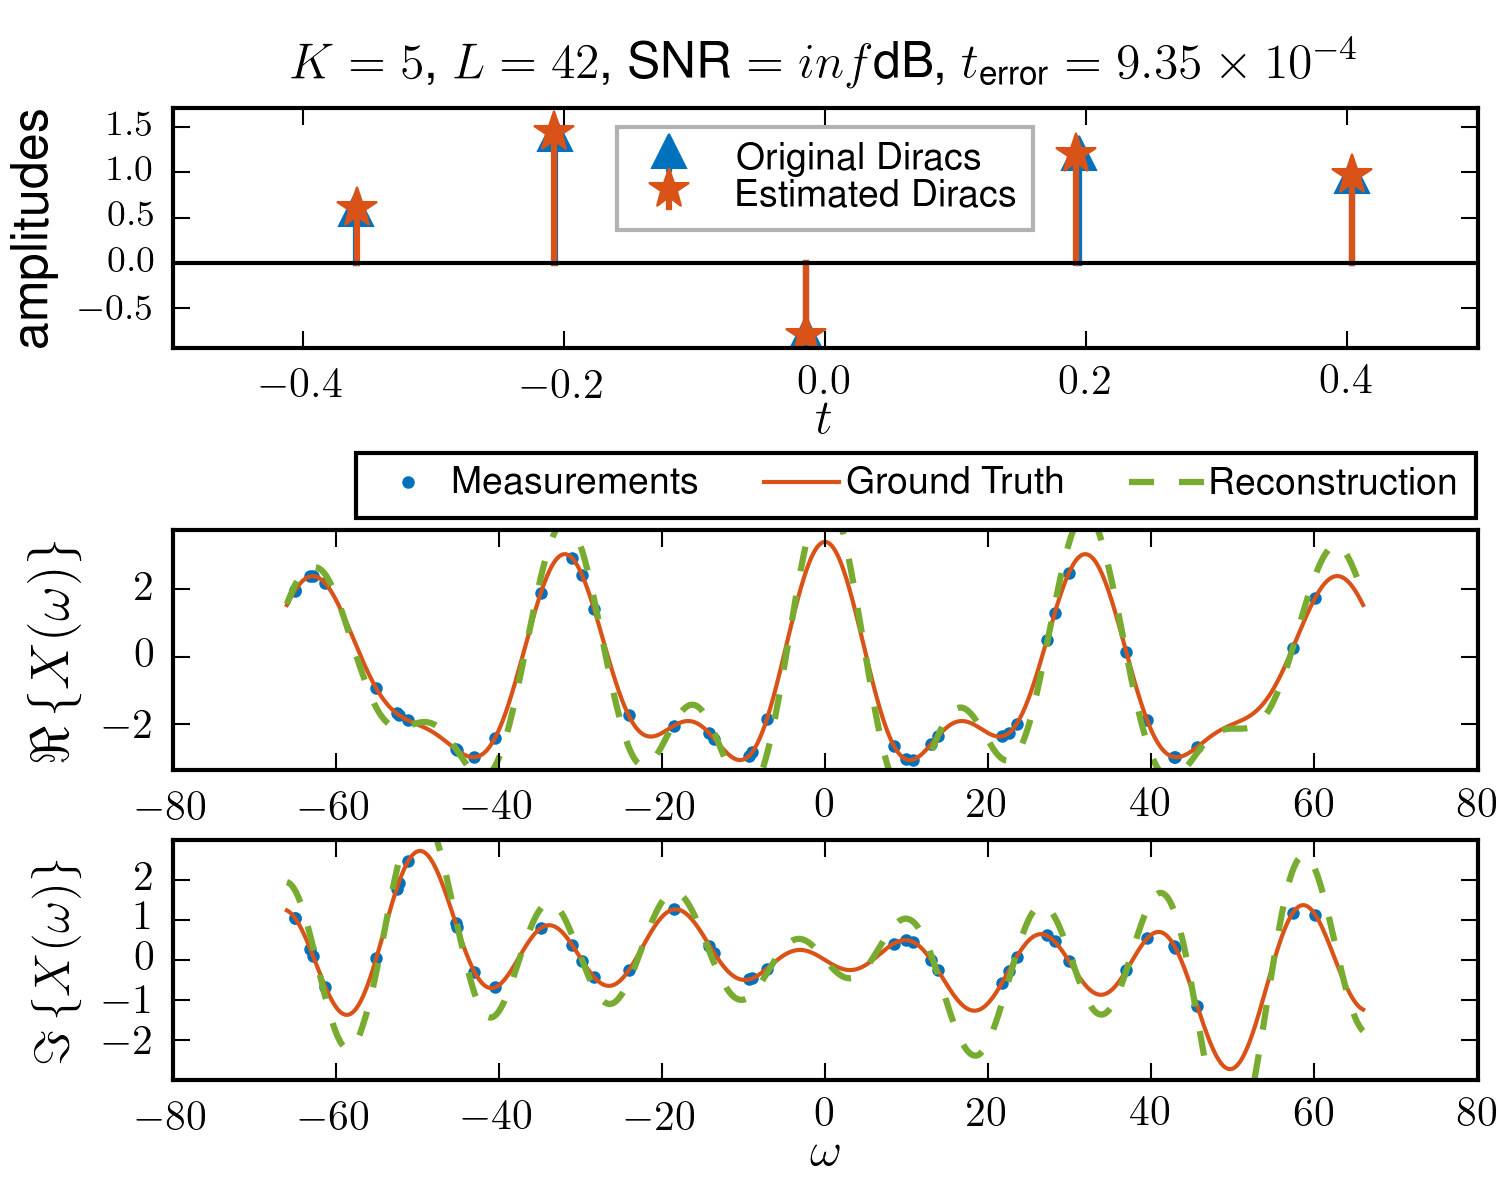
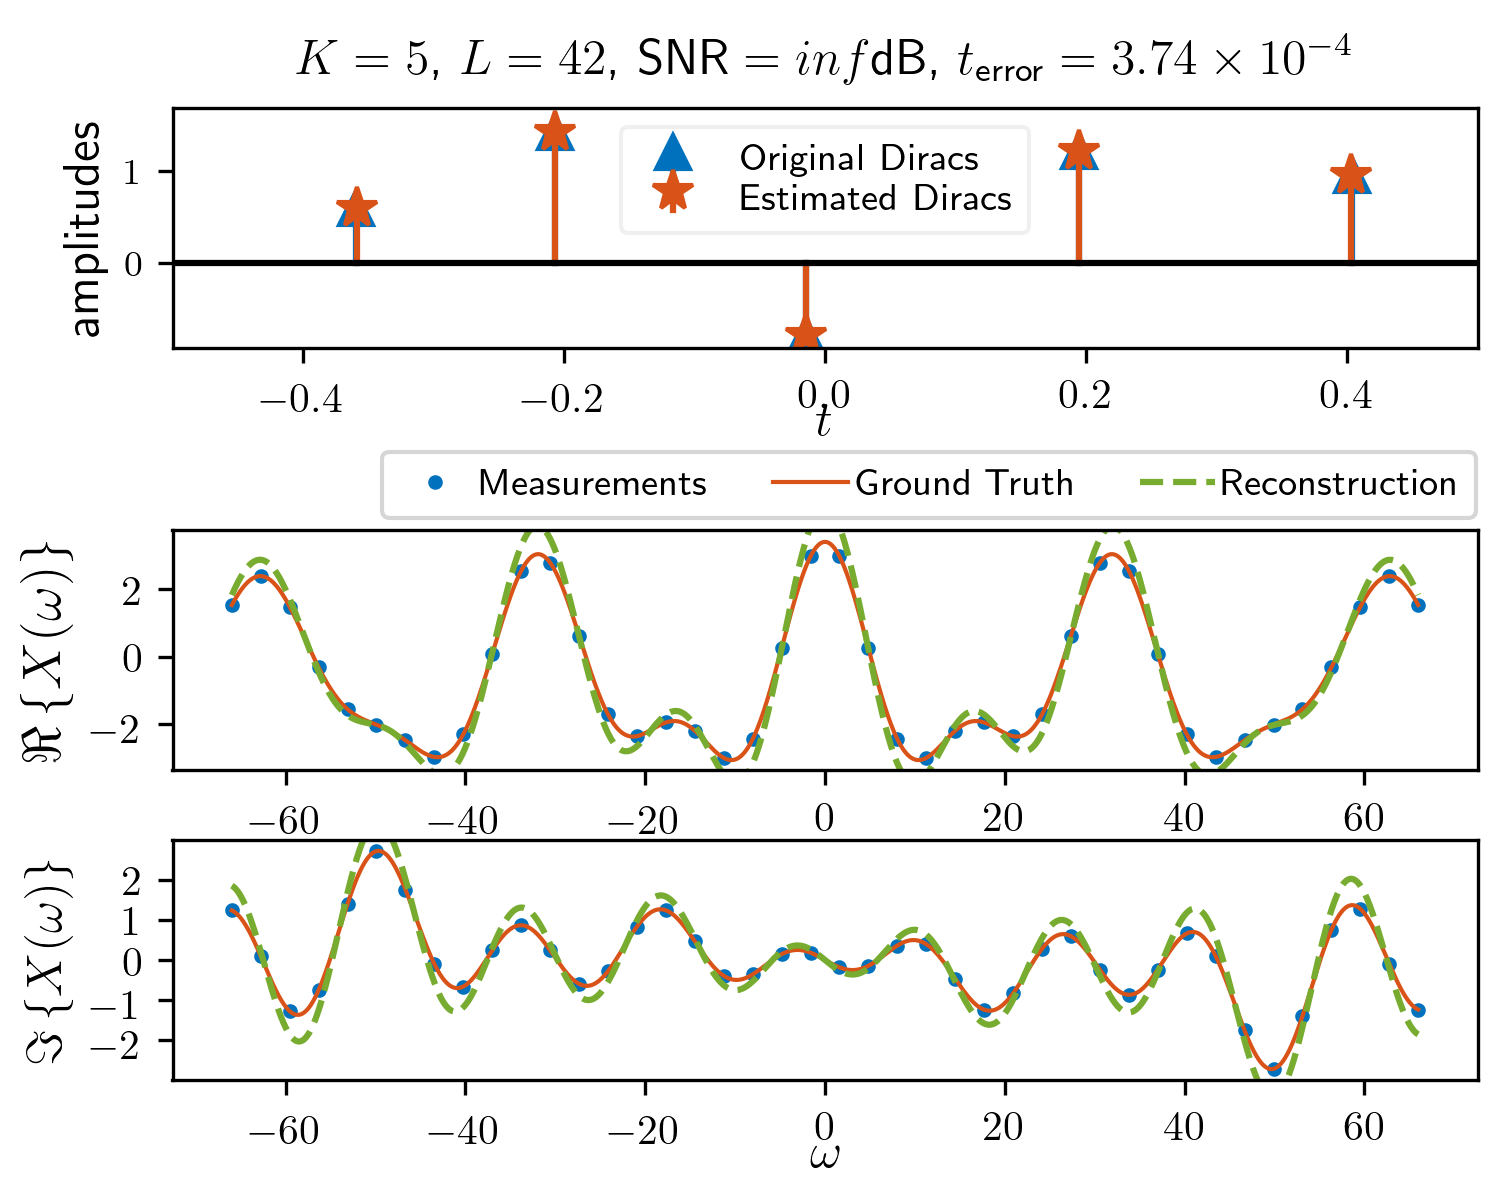
changes for MFSP application session

diff --git a/example_uniform_fourier_samp.py b/example_uniform_fourier_samp.py
@@ -1,0 +1,194 @@
+from __future__ import division
+import datetime
+import numpy as np
+from scipy import linalg
+import matplotlib.pyplot as plt
+from alg_tools_1d import distance, build_G_fourier, dirac_recon_irreg_fourier, dirac_recon_time
+
+if __name__ == '__main__':
+    # various experiment settings
+    save_fig = True  # save figure or not
+    fig_format = r'png'  # file type used to save the figure, e.g., pdf, png, etc.
+    interp_kernel = 'dirichlet'  # interpolation kernel used: 1) dirichlet; 2) triangular; 3) cubic; 4) keys
+    periodic_spectrum = False  # whether the spetrum is periodic or not
+
+    # check and correct interpolation kernel if the spectrum is periodic
+    # should use dirichlet kernel in this case
+    if periodic_spectrum:
+        interp_kernel = 'dirichlet'
+
+    K = 5  # number of Diracs
+    M = 21  # period of the spectrum: M * tau must be an ODD number
+    tau = 1.  # time support of the signal is from -0.5 * tau to 0.5 * tau
+
+    '''
+    # generate random values for Dirac amplitudes and locations
+    # amplitudes of the Diracs
+    ak = np.sign(np.random.randn(K)) * (1 + (np.random.rand(K) - 0.5) / 1.)
+    # locations of the Diracs
+    if periodic_spectrum:
+        delta_t = 1. / M
+        tk = np.sort(
+            np.random.permutation(np.uint(np.floor(0.5 * tau / delta_t) * 2))[0:K] *
+            delta_t) - np.floor(0.5 * tau / delta_t) * delta_t
+    else:
+        if K == 1:
+            tk = np.random.rand()
+        else:
+            a = 4. / M
+            uk = np.random.exponential(scale=1. / K, size=(K - 1, 1))
+            tk = np.cumsum(a + (1. - K * a) * (1 - 0.1 * np.random.rand()) / uk.sum() * uk)
+            tk = np.sort(np.hstack((np.random.rand() * tk[0] / 2., tk)) + (1 - tk[-1]) / 2.) * tau - 0.5 * tau
+
+    # save Dirac parameter
+    time_stamp = datetime.datetime.now().strftime("%d-%m_%H_%M")
+    if periodic_spectrum:
+        file_name = './data/freq_Dirac_Data_p' + time_stamp + '.npz'
+    else:
+        file_name = './data/freq_Dirac_Data_ap' + time_stamp + '.npz'
+    np.savez(file_name, tk=tk, ak=ak, K=K, M=M, time_stamp=time_stamp)
+    '''
+
+    # load saved data
+    if periodic_spectrum:
+        time_stamp = r'20-12_11_48'  # for the periodic case
+    else:
+        time_stamp = r'20-12_11_55'  # for the aperiodic case
+    if periodic_spectrum:
+        stored_param = np.load('./data/freq_Dirac_Data_p' + time_stamp + '.npz')
+    else:
+        stored_param = np.load('./data/freq_Dirac_Data_ap' + time_stamp + '.npz')
+    tk = stored_param['tk']
+    ak = stored_param['ak']
+    K = stored_param['K'].tolist()
+    M = stored_param['M'].tolist()
+
+    print(r'time stamp: ' + time_stamp +
+          '\n=======================================\n')
+
+    # number of random Fourier domain measurements (over sample in the noisy case)
+    L = 2 * M + 1
+    # generate random frequencies to take samples
+    omega_ell = np.linspace(-M * np.pi, M * np.pi, L)
+    omega_step_sz = omega_ell[1] - omega_ell[0]
+    # Fourier transform of the Diracs
+    tk_grid, omega_grid = np.meshgrid(tk, omega_ell)
+    Xomega_ell = np.dot(np.exp(-1j * omega_grid * tk_grid), ak)
+
+    # add noise
+    P = 5#np.inf
+    noise = np.random.randn(L) + 1j * np.random.randn(L)
+    noise = noise / linalg.norm(noise) * linalg.norm(Xomega_ell) * 10 ** (-P / 20.)
+    Xomega_ell_noisy = Xomega_ell + noise
+
+    # noise energy, in the noiseless case 1e-14 is considered as 0
+    # noise_level = np.max([1e-14, linalg.norm(noise)])
+    # max_ini = 50  # maximum number of random initialisations
+
+    G = np.eye(L)
+    xhat_recon, min_error, c_opt = dirac_recon_time(G, Xomega_ell_noisy, K)[:3]
+    # reconstruct Diracs' locations tk
+    z = np.roots(c_opt)
+    z = z / np.abs(z)
+    tk_recon = np.real(1j / omega_step_sz * np.log(z))
+    tk_recon[tk_recon >= 0.5 * tau] -= tau
+
+    # location estimation error
+    t_error = distance(tk_recon, tk)[0]
+
+    # reconstruct amplitudes ak
+    G_amp = np.exp(-1j * omega_ell.reshape((-1, 1)) * tk_recon.reshape((1, -1)))
+    ak_recon = linalg.lstsq(G_amp, Xomega_ell_noisy)[0]
+    if np.isclose(np.max(np.abs(ak.imag)), 0):
+        ak_recon = ak_recon.real
+
+    # plot reconstruction
+    plt.close()
+    fig = plt.figure(num=1, figsize=(5, 4), dpi=90)
+
+    subplt_height = 0.2
+    subplt_width = 0.87
+    subplt_left_corner = 0.115
+    # sub-figure 1
+    ax1 = plt.axes([subplt_left_corner, 0.71, subplt_width, subplt_height])
+    markerline311_1, stemlines311_1, baseline311_1 = ax1.stem(tk, ak, label='Original Diracs')
+    plt.setp(stemlines311_1, linewidth=1.5, color=[0, 0.447, 0.741])
+    plt.setp(markerline311_1, marker='^', linewidth=1.5, markersize=8,
+             markerfacecolor=[0, 0.447, 0.741], mec=[0, 0.447, 0.741])
+    plt.setp(baseline311_1, linewidth=0)
+
+    markerline311_2, stemlines311_2, baseline311_2 = \
+        plt.stem(tk_recon, ak_recon, label='Estimated Diracs')
+    plt.setp(stemlines311_2, linewidth=1.5, color=[0.850, 0.325, 0.098])
+    plt.setp(markerline311_2, marker='*', linewidth=1.5, markersize=10,
+             markerfacecolor=[0.850, 0.325, 0.098], mec=[0.850, 0.325, 0.098])
+    plt.setp(baseline311_2, linewidth=0)
+    ax1.yaxis.set_tick_params(labelsize=8.5)
+    plt.axhline(0, color='k')
+    plt.xlim([-tau / 2, tau / 2])
+    plt.ylim([1.18 * np.min(np.concatenate((ak, ak_recon, np.array(0)[np.newaxis]))),
+              1.18 * np.max(np.concatenate((ak, ak_recon, np.array(0)[np.newaxis])))])
+    plt.xlabel(r'$t$', fontsize=12)
+    plt.ylabel(r'amplitudes', fontsize=12)
+    ax1.xaxis.set_label_coords(0.5, -0.21)
+    plt.legend(numpoints=1, loc=0, fontsize=9, framealpha=0.3,
+               columnspacing=1.7, labelspacing=0.1)
+    t_error_pow = np.int(np.floor(np.log10(t_error)))
+    plt.title(r'$K={0}$, $L={1}$, '
+              r'$\mbox{{SNR}}={2}$dB, '
+              r'$t_{{\mbox{{\footnotesize error}}}}='
+              r'{3:.2f}\times10^{other}$'.format(repr(K), repr(L), repr(P),
+                                                 t_error / 10 ** t_error_pow,
+                                                 other='{' + str(t_error_pow) + '}'),
+              fontsize=12)
+    # sub-figure 2
+    omega_continuous = np.linspace(-np.pi * M, np.pi * M, num=np.max([10 * L, 10000]))
+    tk_grid_conti, omega_grid_conti = np.meshgrid(tk, omega_continuous)
+    Xomegas_conti = np.dot(np.exp(-1j * omega_grid_conti * tk_grid_conti), ak)
+
+    G_conti_recon = np.exp(-1j * omega_continuous.reshape((-1, 1)) * tk_recon.reshape((1, -1)))
+    Xomegas_conti_recon = np.dot(G_conti_recon, ak_recon)
+
+    ax2 = plt.axes([subplt_left_corner, 0.358, subplt_width, subplt_height])
+    line312_1 = ax2.plot(omega_ell, np.real(Xomega_ell_noisy), label='Measurements')
+    plt.setp(line312_1, marker='.', linestyle='None', markersize=5, color=[0, 0.447, 0.741])
+
+    line312_2 = plt.plot(omega_continuous, np.real(Xomegas_conti), label='Ground Truth')
+    plt.setp(line312_2, linestyle='-', color=[0.850, 0.325, 0.098], linewidth=1)
+
+    line312_3 = plt.plot(omega_continuous, np.real(Xomegas_conti_recon), label='Reconstruction')
+    plt.setp(line312_3, linestyle='--', color=[0.466, 0.674, 0.188], linewidth=1.5)
+    plt.ylim([1.1 * np.min(np.concatenate((np.real(Xomegas_conti), np.real(Xomega_ell_noisy)))),
+              1.1 * np.max(np.concatenate((np.real(Xomegas_conti), np.real(Xomega_ell_noisy))))])
+    ax2.yaxis.major.locator.set_params(nbins=7)
+    plt.ylabel(r'$\Re\left\{X(\omega)\right\}$', fontsize=13)
+    plt.legend(numpoints=1, loc=4, bbox_to_anchor=(1.013, 0.975), fontsize=9,
+               handletextpad=.2, columnspacing=1.7, labelspacing=0.1, ncol=3)
+    # sub-figure 3
+    ax3 = plt.axes([subplt_left_corner, 0.10, subplt_width, subplt_height])
+    line313_1 = ax3.plot(omega_ell, np.imag(Xomega_ell_noisy), label='Measurements')
+    plt.setp(line313_1, marker='.', linestyle='None', markersize=5, color=[0, 0.447, 0.741])
+
+    line313_2 = plt.plot(omega_continuous, np.imag(Xomegas_conti), label='Ground Truth')
+    plt.setp(line313_2, linestyle='-', color=[0.850, 0.325, 0.098], linewidth=1)
+
+    line313_3 = plt.plot(omega_continuous, np.imag(Xomegas_conti_recon), label='Reconstruction')
+    plt.setp(line313_3, linestyle='--', color=[0.466, 0.674, 0.188], linewidth=1.5)
+    plt.ylim([1.1 * np.min(np.concatenate((np.imag(Xomegas_conti), np.imag(Xomega_ell_noisy)))),
+              1.1 * np.max(np.concatenate((np.imag(Xomegas_conti), np.imag(Xomega_ell_noisy))))])
+    ax3.yaxis.major.locator.set_params(nbins=7)
+    plt.ylabel(r'$\Im\left\{X(\omega)\right\}$', fontsize=12)
+    plt.xlabel(r'$\omega$', fontsize=12)
+    ax3.xaxis.set_label_coords(0.5, -0.21)
+
+    if save_fig:
+        if periodic_spectrum:
+            file_name = (r'./result/TSP_eg2_K_{0}_L_{1}_M_{2}_noise_{3}dB_' +
+                         interp_kernel + r'_periodic' +
+                         r'.' + fig_format).format(repr(K), repr(L), repr(M), repr(P))
+        else:
+            file_name = (r'./result/TSP_eg2_K_{0}_L_{1}_M_{2}_noise_{3}dB_' +
+                         interp_kernel + r'_aperiodic' +
+                         r'.' + fig_format).format(repr(K), repr(L), repr(M), repr(P))
+        plt.savefig(file_name, format=fig_format, dpi=300, transparent=True)
+    plt.show()

diff --git a/alg_tools_1d.py b/alg_tools_1d.py
@@ -7,7 +7,7 @@ from matplotlib import rcParams
 # for latex rendering
 os.environ['PATH'] = os.environ['PATH'] + ':/usr/texbin' + ':/opt/local/bin' + ':/Library/TeX/texbin/'
 rcParams['text.usetex'] = True
-rcParams['text.latex.unicode'] = True
+# rcParams['text.latex.unicode'] = True
 
 
 def distance(x1, x2):
@@ -137,9 +137,9 @@ def build_G_fourier(omega_ell, M, tau, interp_kernel, **kwargs):
         Phi_inter = keysInter(omegas / (2 * np.pi / tau) - m_grid)
     else:
         Phi_inter = periodicSinc((tau * omegas - 2 * np.pi * m_grid) / 2., M * tau)
-    if 'tk_ref' in kwargs:
-        tk_ref = kwargs['tk_ref']
-        # now the part that is build based on tk_ref
+    if 'tk_recon' in kwargs:
+        tk_ref = kwargs['tk_recon']
+        # now the part that is build based on tk_recon
         tks_grid, m_uni_grid = np.meshgrid(tk_ref, np.arange(-m_limit, m_limit + 1))
         B_ref = np.exp(-1j * 2 * np.pi / tau * m_uni_grid * tks_grid)
         W_ref = linalg.solve(np.dot(B_ref.conj().T, B_ref), B_ref.conj().T)
@@ -153,7 +153,7 @@ def build_G_fourier(omega_ell, M, tau, interp_kernel, **kwargs):
     return G
 
 
-def dirac_recon_time(G, a, K, noise_level, max_ini=100, stop_cri='mse'):
+def dirac_recon_time(G, a, K, noise_level=0, max_ini=100, stop_cri='mse'):
     compute_mse = (stop_cri == 'mse')
     M = G.shape[1]
     GtG = np.dot(G.conj().T, G)
@@ -223,7 +223,7 @@ def dirac_recon_time(G, a, K, noise_level, max_ini=100, stop_cri='mse'):
     return b_opt, min_error, c_opt, ini
 
 
-def dirac_recon_irreg_fourier(FourierData, K, tau, omega_ell, M, noise_level,
+def dirac_recon_irreg_fourier(FourierData, K, tau, omega_ell, M, noise_level=0,
                               max_ini=100, stop_cri='mse', interp_kernel='dirichlet',
                               update_G=False):
     # whether to update the linear transformation matrix G

diff --git a/fig8a_irreg_fourier_samp.py b/fig8a_irreg_fourier_samp.py
@@ -29,7 +29,7 @@ if __name__ == '__main__':
     stop_cri = 'max_iter'  # stopping criteria: 1) mse; or 2) max_iter
     fig_format = r'png'  # file type used to save the figure, e.g., pdf, png, etc.
     interp_kernel = 'triangular'  # interpolation kernel used: 1) dirichlet; 2) triangular; 3) cubic; 4) keys
-    periodic_spectrum = False  # whether the spetrum is periodic or not
+    periodic_spectrum = False  # whether the spectrum is periodic or not
     web_fig = False  # generate html file for the figures
 
     # check and correct interpolation kernel if the spectrum is periodic
@@ -228,11 +228,11 @@ if __name__ == '__main__':
     #                       color='#0072BD',
     #                       line_width=1.5,
     #                       line_color='#0072BD')
-    #     p_hdl1.diamond(x=tk_ref, y=ak_recon,
+    #     p_hdl1.diamond(x=tk_recon, y=ak_recon,
     #                    color='#D95319',
     #                    line_width=1.5, size=10,
     #                    legend='Estimated Diracs')
-    #     p_hdl1.multi_line(xs=np.vstack((tk_ref, tk_ref)).T.tolist(),
+    #     p_hdl1.multi_line(xs=np.vstack((tk_recon, tk_recon)).T.tolist(),
     #                       ys=np.vstack((np.zeros(ak_recon.shape), ak_recon)).T.tolist(),
     #                       color='#D95319',
     #                       line_width=1.5,

diff --git a/fig7_irreg_fourier_samp.py b/fig7_irreg_fourier_samp.py
@@ -227,11 +227,11 @@ if __name__ == '__main__':
     #                       color='#0072BD',
     #                       line_width=1.5,
     #                       line_color='#0072BD')
-    #     p_hdl1.diamond(x=tk_ref, y=ak_recon,
+    #     p_hdl1.diamond(x=tk_recon, y=ak_recon,
     #                    color='#D95319',
     #                    line_width=1.5, size=10,
     #                    legend='Estimated Diracs')
-    #     p_hdl1.multi_line(xs=np.vstack((tk_ref, tk_ref)).T.tolist(),
+    #     p_hdl1.multi_line(xs=np.vstack((tk_recon, tk_recon)).T.tolist(),
     #                       ys=np.vstack((np.zeros(ak_recon.shape), ak_recon)).T.tolist(),
     #                       color='#D95319',
     #                       line_width=1.5,

diff --git a/fig8b_irreg_fourier_samp.py b/fig8b_irreg_fourier_samp.py
@@ -230,11 +230,11 @@ if __name__ == '__main__':
     #                       color='#0072BD',
     #                       line_width=1.5,
     #                       line_color='#0072BD')
-    #     p_hdl1.diamond(x=tk_ref, y=ak_recon,
+    #     p_hdl1.diamond(x=tk_recon, y=ak_recon,
     #                    color='#D95319',
     #                    line_width=1.5, size=10,
     #                    legend='Estimated Diracs')
-    #     p_hdl1.multi_line(xs=np.vstack((tk_ref, tk_ref)).T.tolist(),
+    #     p_hdl1.multi_line(xs=np.vstack((tk_recon, tk_recon)).T.tolist(),
     #                       ys=np.vstack((np.zeros(ak_recon.shape), ak_recon)).T.tolist(),
     #                       color='#D95319',
     #                       line_width=1.5,
